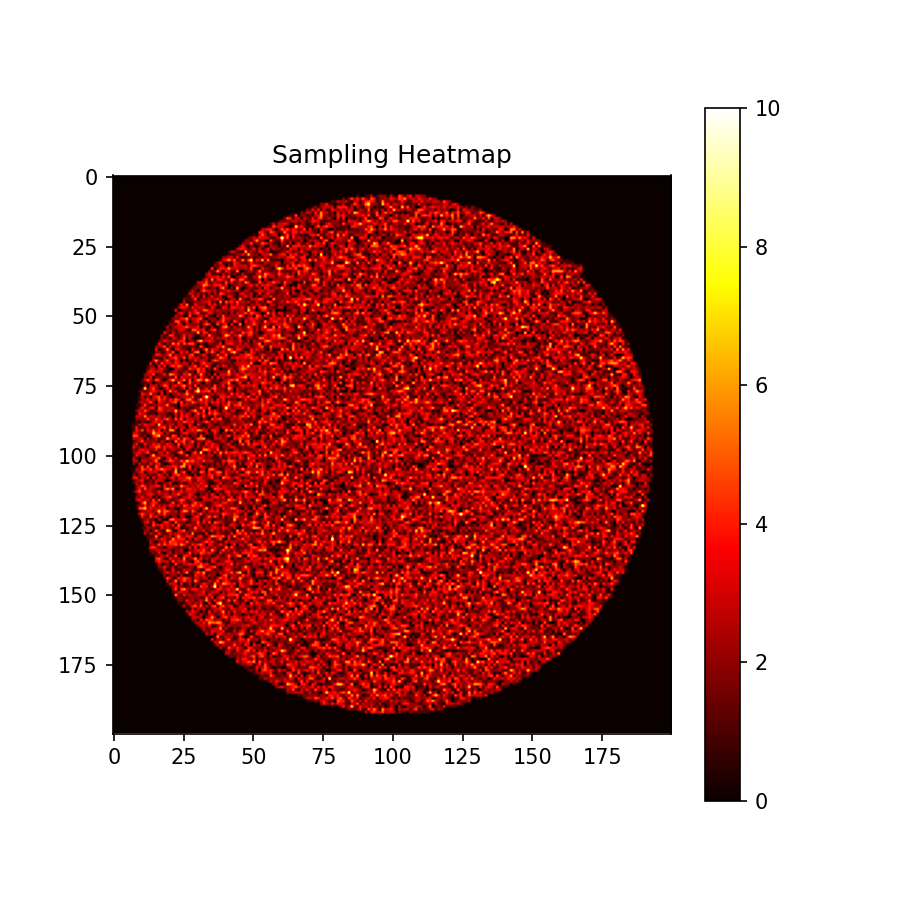
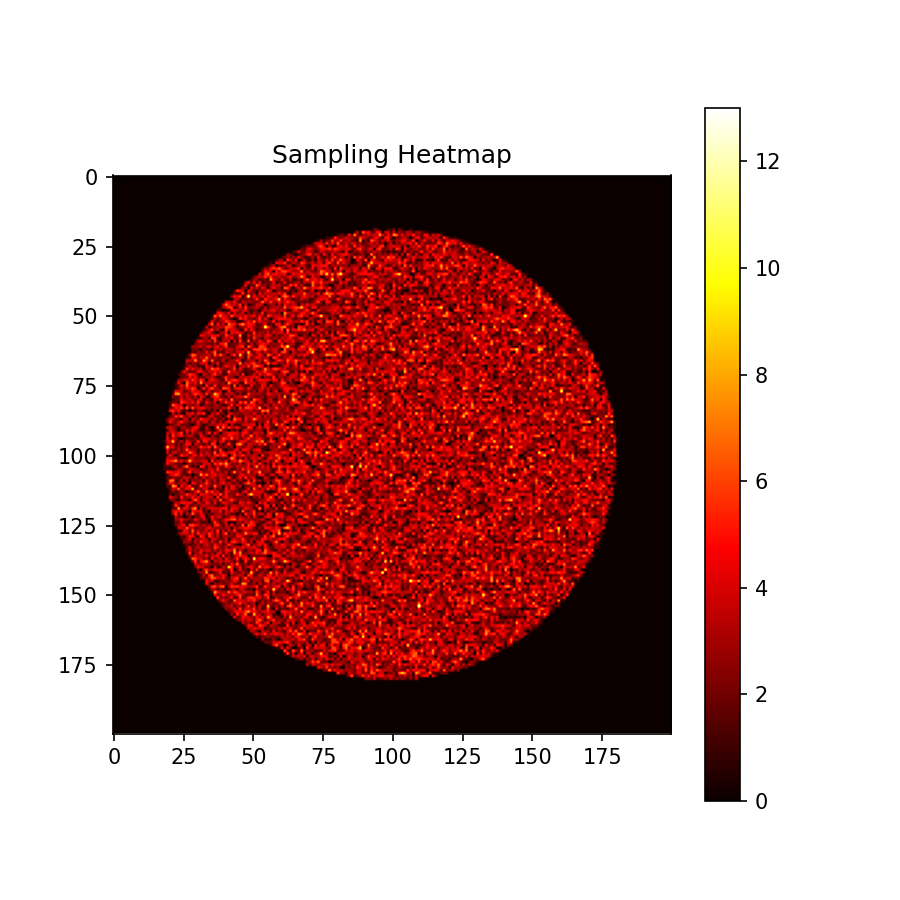
run RFMID filtered

diff --git a/run.py b/run.py
@@ -8,13 +8,13 @@ import numpy as np
 current_directory = os.getcwd()
 results = []
 
-TARGET = "FIRE"  # "FIRE", "RFMID"
+TARGET = "RFMID"  # "FIRE", "RFMID"
 
 # learning_rates = [0.0001, 0.00001, 0.000001]
 # batch_sizes = [160000, 190000, 220000, 250000, 280000, 310000, 340000, 370000, 400000]
 
-learning_rates = [0.0001]   
-network_types = ["SIREN"] 
+learning_rates = [0.00001]   
+network_types = ["MLP"] 
 lottery = 5  #1
 
 for lr in learning_rates:
@@ -69,8 +69,12 @@ for lr in learning_rates:
                 general.clean_memory()
 
         elif TARGET == "RFMID":
-            for i in range(9,10):
-                result = general.load_image_RFMID(f"{data_dir}/Testing_{i}.npz")
+            for i in range(0,10):
+                accepted_files_path = os.path.join(current_directory, 'data/treshRFMID/accepted_files_75.0.txt')
+                with open(accepted_files_path, 'r') as f:
+                    file_paths = [line.strip() for line in f if line.startswith('data/RFMID/')]
+                print(f"File path: {file_paths[i]}")
+                result = general.load_image_RFMID(file_paths[i])
                 if result is None:
                     continue
                 else:

diff --git a/visualization/comp_exp.py b/visualization/comp_exp.py
@@ -176,16 +176,16 @@ if __name__ == "__main__":
     # dir_3 = "out/new/good/RFMID/RFMIDu/MLP-1e-05-2000-62500"
     # dir_4 = "out/new/good/RFMID/RFMIDu/SIREN-1e-05-2000-62500"
     # not enought common subfolders RFMID
-    # dir_1 = "out/real/FIRE/MLP-0.0001-r-1000-65536"
-    # dir_2 = "out/real/FIRE/MLP-0.0001-r-1000-131072_1"
+    dir_1 = "out/real/FIRE/MLP-0.0001-r-1000-65536"
+    dir_2 = "out/real/FIRE/MLP-0.0001-r-1000-131072"
     dir_3 = "out/real/FIRE/MLP-0.0001-u-1000-65536"
     dir_4 = "out/real/FIRE/MLP-0.0001-u-1000-131072"
-    # dir_5 = "out/new/FIRE/MLP-1e-05-500-16"
-    # dir_6 = "out/new/FIRE/MLP-1e-05-500-256"
+    dir_5 = "out/real/FIRE/SIREN-1e-05-u-1000-65536"
+    dir_6 = "out/real/FIRE/SIREN-1e-06-r-1000-65536"
     # dir_7 = "out/new/good/FIRE/S/MLP-1e-05-2000-150000_S_r_baseline" 
 
     # dir_reg = "out/new/FIRE/MLP-1e-05-2000-150000_A_r"
     # dir_percentage = "out/new/RFMID/SIREN-1e-05-2000-150000_p"
-    dirs = [ dir_3, dir_4]
+    dirs = [dir_1, dir_2, dir_3, dir_4, dir_5, dir_6]
     compare_experiments(dirs)
     print("Comparison file saved as 'comp_exp.png'")
